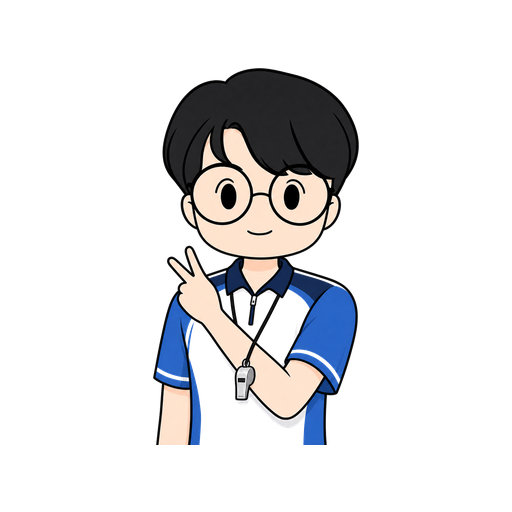
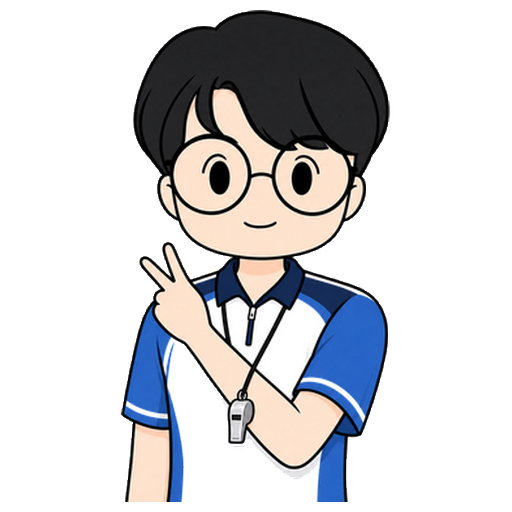
타일도 끌어서 묶음 이동 · 로고 크게 · 배경 없는 아이콘 (v1.56.0)
끌어 옮기기
- 고치기로 들어가야만 되던 것을 «평소 화면 타일» 에서도 되게 했다.
  눈앞의 타일을 그냥 끌고 싶은 것이 자연스럽다.
- ★ 타일 안의 «여는 단추» 를 끌면 브라우저가 링크 끌기로 채간다 —
  타일 상자(.lbt)에 draggable 을 걸고 안쪽 단추의 끌기는 껐다.
- 접힌 묶음으로 옮기면 «어디로 갔는지» 보이게 그 묶음을 펼친다.

로고
- 제목 줄 26 → 34px, 넓게 보기 사이드바 26 → 36px. 26px 은 얼굴이 뭉개져
  누군지 안 보였다.

★ 작업표시줄 아이콘 — icon.png 는 512×512 «RGB» 였다.
  알파가 아예 없어서 흰 네모가 통째로 보였다(그림판에서는 투명해 보인다).
  → 테두리에서 흘려보내(flood fill) 바깥에 이어진 흰 곳만 지웠다.
    그냥 «흰 곳» 을 다 지우면 얼굴·셔츠에 구멍이 난다.
  → 그림이 든 자리만 잘라(206×377) 정사각으로 맞추고 꽉 차게 키웠다.
    여백이 넓어 작업표시줄에서 조그맣게 보였다.
  → tray 도 32 → 64px 로. 혜원이지 것도 같이(453×512 로 잘림).
  만드는 코드는 scratchpad/mkicon.js — 다시 만들 일이 있으면 그걸 쓴다.
  (Electron nativeImage 만 쓴다. 바깥 라이브러리가 필요 없다)

Changed region(s): [[0.2188, 0.0, 0.7812, 1.0]]

diff --git a/views.js b/views.js
@@ -2360,7 +2360,8 @@ function lbGroup(title, list, all, key) {
 
   var h = '<div class="lgrp lgh' + (folded ? ' folded' : '') + '"'
     + (canFold ? ' data-lbfold="' + esc(key) + '"' : '')
-    + (editing && cat ? ' data-lbdrop="' + esc(cat) + '"' : '') + '>';
+    // ★ 받는 자리는 평소에도 열어 둔다 — 타일을 그냥 끌어 옮길 수 있어야 한다
+    + (lbAdmin() && cat ? ' data-lbdrop="' + esc(cat) + '"' : '') + '>';
   if (canFold) h += '<em class="fold">' + (folded ? '▶' : '▼') + '</em>';
   if (editing && cat && lbCatEdit === cat) {
     /* 묶음 이름을 그 자리에서 고친다 */
@@ -2437,7 +2438,8 @@ function lbTile(x, i) {
   var ico = '<span class="lico" style="--ic:' + linkColor(x.t) + '">'
     + ofSvg(ofIconOf(x)) + '</span>';
   var sub = x.d || (x.u ? linkHost(x.u) : '주소 없음');
-  return '<div class="lbt' + (x.u ? '' : ' dead') + '">'
+  return '<div class="lbt' + (x.u ? '' : ' dead') + (lbAdmin() ? ' pick' : '') + '"'
+    + (lbAdmin() ? ' draggable="true" data-lbdrag="' + i + '"' : '') + '>'
     + '<button class="lnk" data-lbgo="' + i + '" title="' + esc(x.u || '') + '">'
     + ico + '<span class="ltx"><b>' + esc(x.t)
     + (x.version ? '<em class="lbv">' + esc(x.version) + '</em>' : '') + '</b>'
@@ -2630,6 +2632,10 @@ function wireBoardList(root) {
       var to = g.dataset.lbdrop;
       if (!x || !to || (x.tab || '기타') === to) return;
       x.tab = to;                    // 먼저 옮겨 보여 준다
+      // 접힌 묶음으로 옮겼으면 펼쳐서 «어디로 갔는지» 보여 준다
+      var kk = (x.shared ? 'y' : 'n') + '/' + lbKindOf(x) + '/' + to;
+      var fi = LBFOLD.indexOf(kk);
+      if (fi >= 0) { LBFOLD.splice(fi, 1); widgetAPI.setUi({ feedFold: LBFOLD }); }
       render();
       lbDo('edit', { key: lbKey(x), data: {
         name: x.t, appUrl: x.u, desc: x.d, tab: to, icon: x.icon,

diff --git a/ui.css b/ui.css
@@ -165,7 +165,8 @@
      그림은 브라우저가 «그림 끌어다 놓기» 로 먼저 채가서 창 이동이 막힌다.
      그림 자체의 끌기를 끄고, 마우스를 아예 통과시켜 뒤의 제목 줄이 받게 한다. */
   .tlogo {
-    width: 26px; height: 26px; object-fit: contain; flex: 0 0 auto;
+    /* 로고를 키운다 — 26px 은 얼굴이 뭉개져 누군지 안 보였다 */
+    width: 34px; height: 34px; object-fit: contain; flex: 0 0 auto;
     -webkit-user-drag: none; user-select: none; pointer-events: none;
   }
   .ttl { font-size: 17px; font-weight: 800; letter-spacing: -.3px; color: var(--fg); }
@@ -1269,3 +1270,9 @@
   .seg.wait { opacity: .5; }
   .lbt .tseg { position: absolute; left: 6px; bottom: 4px; }
   .lbt .lnk { padding-bottom: calc(22px * var(--wf)); }
+
+  /* 타일도 끌어서 묶음을 옮긴다 */
+  .lbt.pick { cursor: grab; }
+  .lbt.pick:active { cursor: grabbing; }
+  .lbt.pick .lnk, .lbt.pick .lbstar, .lbt.pick .seg button { -webkit-user-drag: none; }
+  .lbt.dragging { opacity: .4; }

diff --git a/help.js b/help.js
@@ -196,7 +196,8 @@ function helpParts(flavor, appName) {
         + '▶ 대회 <span style="opacity:.6">9</span> &nbsp;<span style="opacity:.5">(접힘)</span></div>')
       + '<ul>'
       + '<li><b>▼ / ▶</b> — 묶음 머리를 눌러 접고 펼칩니다. 접어 둔 것은 이 PC 에 기억합니다</li>'
-      + '<li><b>⠿ 를 끌어</b> 다른 묶음 머리에 떨구면 그 묶음으로 옮겨집니다</li>'
+      + '<li><b>⠿ 를 끌어</b> 다른 묶음 머리에 떨구면 그 묶음으로 옮겨집니다. '
+      + '<b>평소 화면에서도 타일을 그냥 끌어</b> 옮길 수 있습니다 — 고치기로 안 들어가도 됩니다</li>'
       + '<li><b>✎</b> — 그 줄이 그 자리에서 펼쳐져 이름·주소·버전을 바로 고칩니다</li>'
       + '<li>묶음 머리의 <b>✎</b> — 묶음 <b>이름</b>을 고치거나 뺍니다. '
       + '뺀 묶음에 있던 것은 <b>기타</b> 로 갑니다</li>'

diff --git a/easy.html b/easy.html
@@ -29,7 +29,7 @@
     padding: 16px 12px; display: flex; flex-direction: column; gap: 3px;
   }
   .brand { display: flex; align-items: center; gap: 8px; padding: 2px 6px 14px; }
-  .brand img { width: 26px; height: 26px; object-fit: contain; -webkit-user-drag: none; }
+  .brand img { width: 36px; height: 36px; object-fit: contain; -webkit-user-drag: none; }
   .brand b { font-size: 17px; font-weight: 800; letter-spacing: -.4px; }
 
   .nav {
